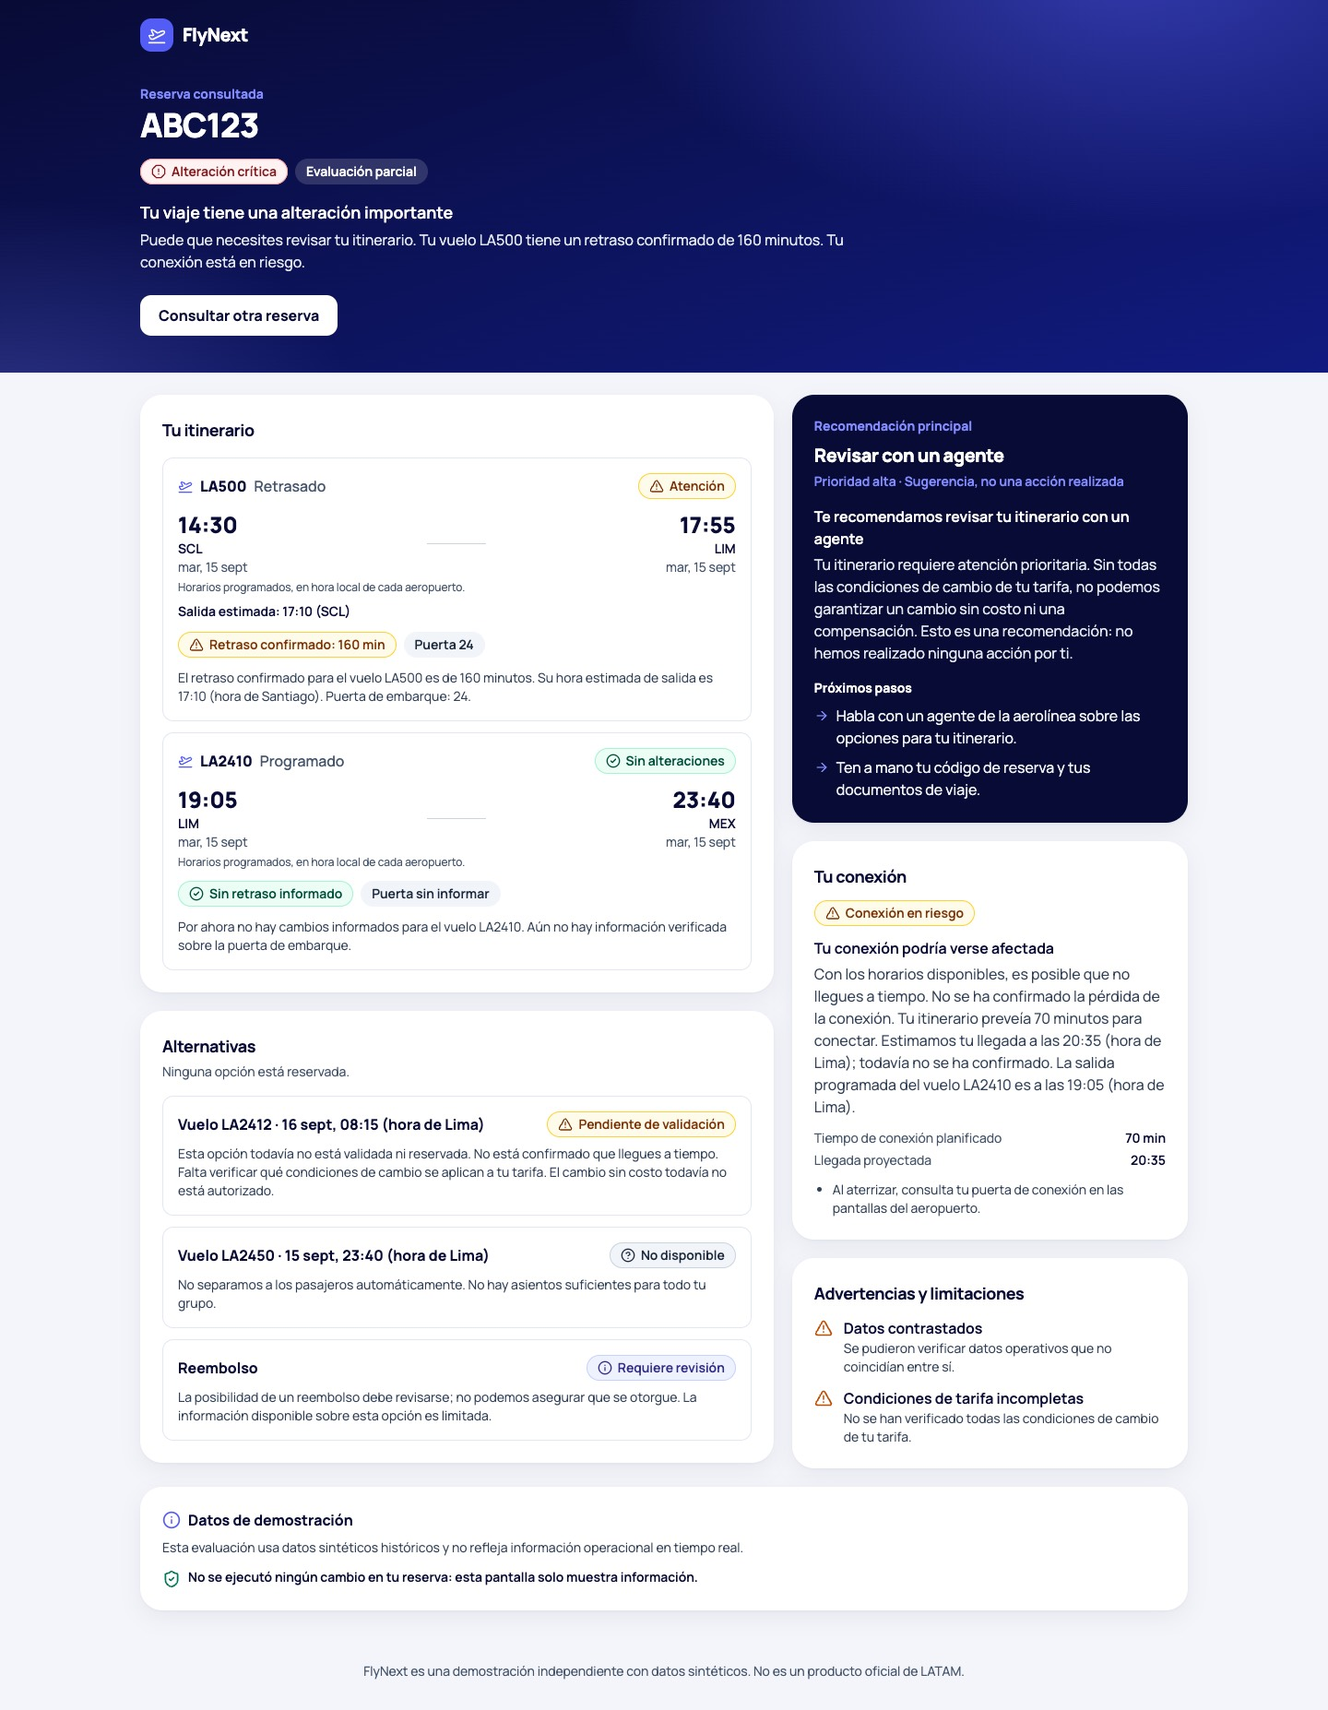
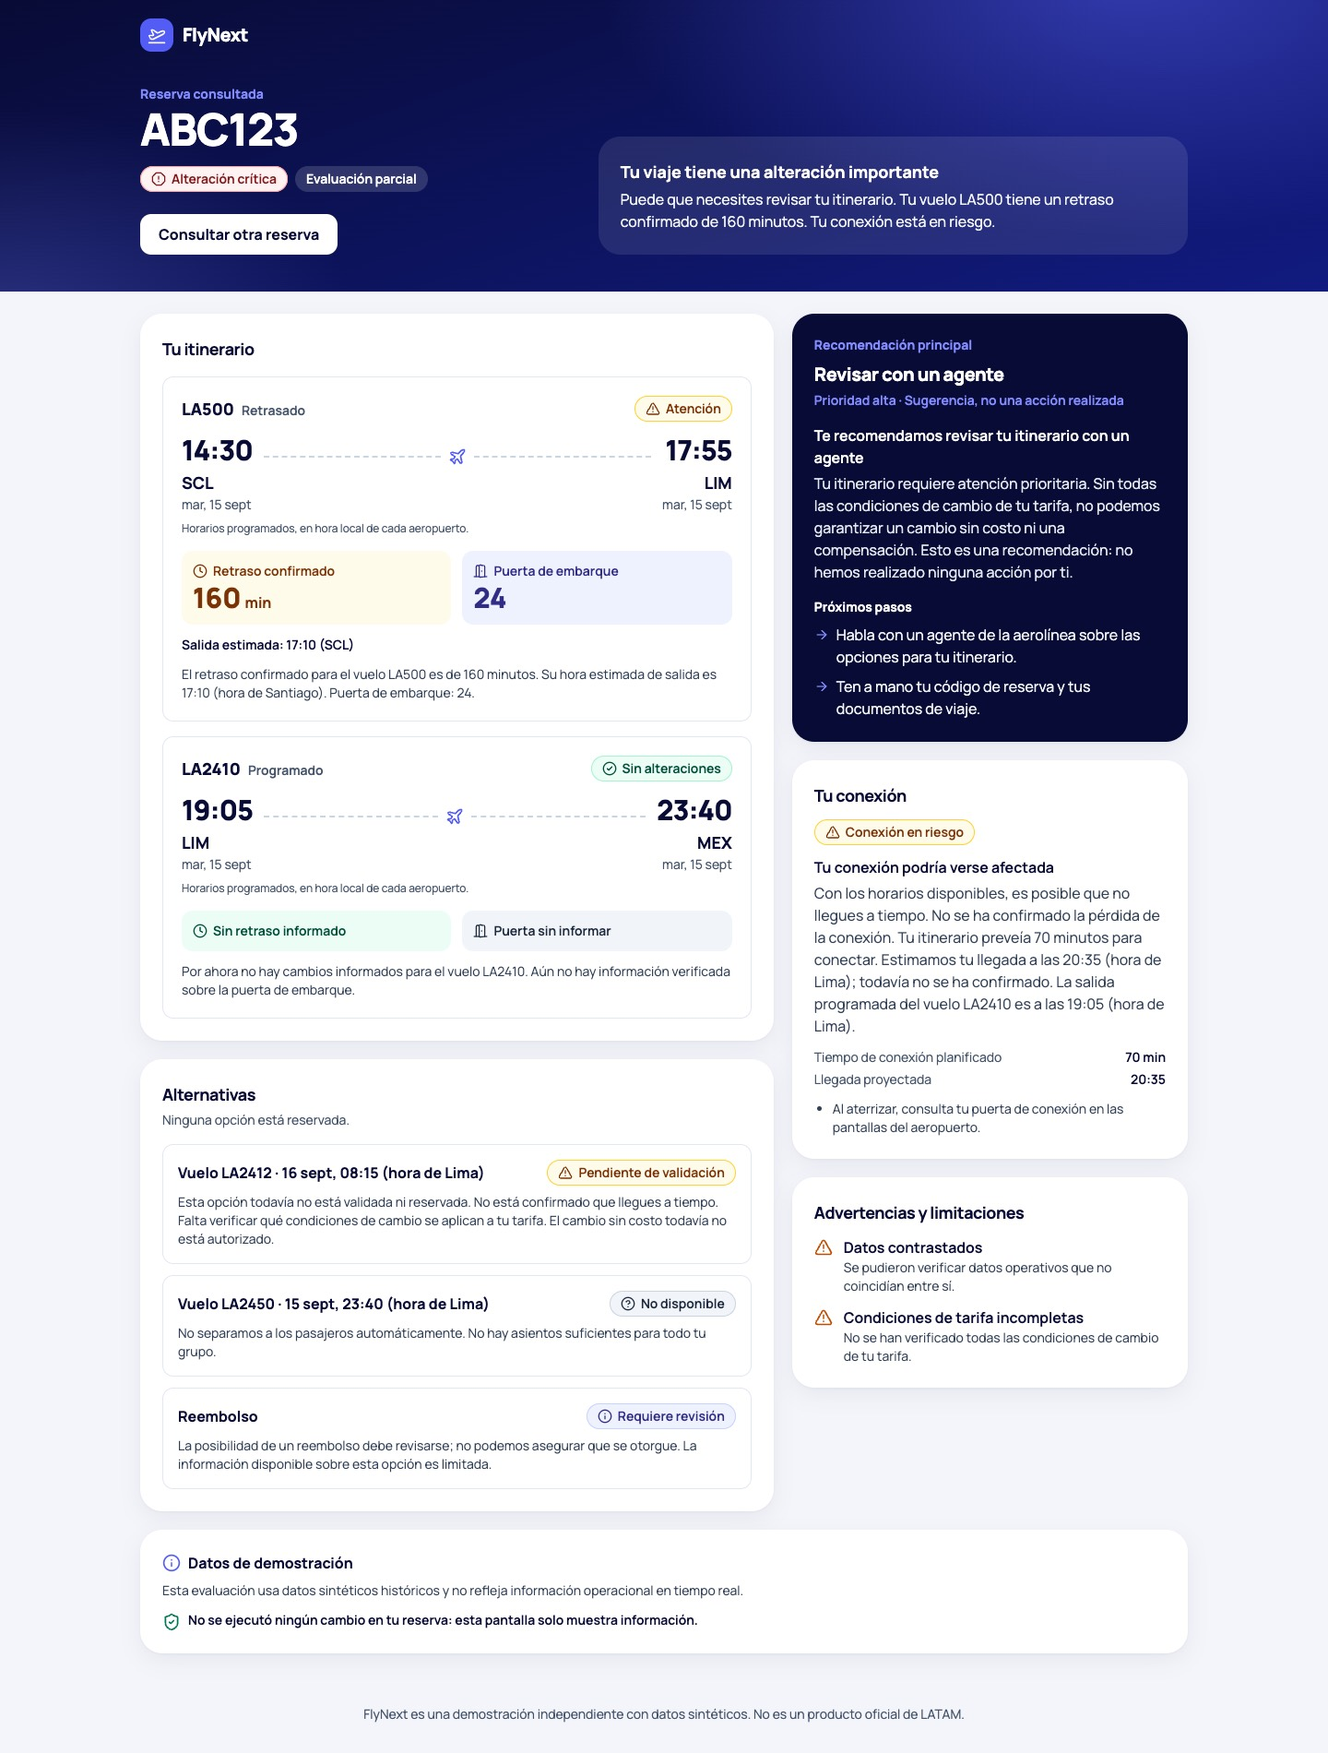
style(web): refine home and assessment visual hierarchy

diff --git a/apps/web/src/features/disruption/components/itinerary.tsx b/apps/web/src/features/disruption/components/itinerary.tsx
@@ -1,57 +1,110 @@
 import type { AssessmentResponse } from "@flynext/contracts";
-import { PlaneTakeoff } from "lucide-react";
+import { Clock, DoorOpen, Plane } from "lucide-react";
 import { Card, CardTitle } from "../../../components/ui/card";
-import { StatusBadge } from "../../../components/ui/status-badge";
+import { StatusBadge, type Tone } from "../../../components/ui/status-badge";
 import { formatClock, formatDay } from "../../../lib/format";
-import { delayLabel, flightStatusLabel, gateLabel, severityLabel } from "../labels";
+import { delayDisplay, flightStatusLabel, gateValue, severityLabel } from "../labels";
 
 type Segment = AssessmentResponse["disruption"]["events"][number];
+type Time = Segment["scheduledDeparture"];
+
+const tileTone: Record<Tone, string> = {
+  ok: "bg-emerald-50 text-emerald-900",
+  info: "bg-indigo-50 text-indigo-900",
+  warn: "bg-amber-50 text-amber-900",
+  critical: "bg-red-50 text-red-900",
+  unknown: "bg-slate-100 text-slate-800",
+};
+
+function Endpoint({ code, time, align }: { code: string; time: Time; align: "left" | "right" }) {
+  return (
+    <div className={align === "right" ? "text-right" : ""}>
+      <p className="text-3xl font-extrabold leading-none tracking-tight">{formatClock(time)}</p>
+      <p className="mt-1.5 text-lg font-bold">{code}</p>
+      <p className="text-sm text-slate-600">{formatDay(time)}</p>
+    </div>
+  );
+}
+
+function Tile({
+  tone,
+  icon: Icon,
+  label,
+  value,
+  unit,
+}: {
+  tone: Tone;
+  icon: typeof Clock;
+  label: string;
+  value?: string | number;
+  unit?: string;
+}) {
+  return (
+    <div className={`rounded-input p-3 ${tileTone[tone]}`}>
+      <p className="flex items-center gap-1.5 text-sm font-semibold">
+        <Icon aria-hidden className="size-4 shrink-0" />
+        {label}
+      </p>
+      {value !== undefined && (
+        <p className="mt-1 text-3xl font-extrabold leading-none">
+          {value}
+          {unit && <span className="ml-1 text-base font-bold">{unit}</span>}
+        </p>
+      )}
+    </div>
+  );
+}
 
 function SegmentItem({ segment }: { segment: Segment }) {
-  const delay = delayLabel(segment.delay);
+  const delay = delayDisplay(segment.delay);
+  const gate = gateValue(segment.gate);
   const severity = severityLabel[segment.severity];
   return (
-    <li className="rounded-input border border-slate-200 p-4">
+    <li className="rounded-input border border-slate-200 p-4 sm:p-5">
       <div className="flex flex-wrap items-center justify-between gap-2">
-        <p className="flex items-center gap-2 font-extrabold">
-          <PlaneTakeoff aria-hidden className="size-4 text-indigo" />
+        <p className="flex items-baseline gap-2 text-lg font-extrabold">
           {segment.flightNumber}
-          <span className="font-medium text-slate-600">
+          <span className="text-sm font-semibold text-slate-600">
             {flightStatusLabel[segment.flightStatus]}
           </span>
         </p>
         <StatusBadge tone={severity.tone}>{severity.text}</StatusBadge>
       </div>
 
-      <div className="mt-3 grid grid-cols-[1fr_auto_1fr] items-center gap-3">
-        <div>
-          <p className="text-2xl font-extrabold">{formatClock(segment.scheduledDeparture)}</p>
-          <p className="text-sm font-semibold">{segment.origin.code}</p>
-          <p className="text-sm text-slate-600">{formatDay(segment.scheduledDeparture)}</p>
+      <div className="mt-4 grid grid-cols-[auto_1fr_auto] items-start gap-3">
+        <Endpoint code={segment.origin.code} time={segment.scheduledDeparture} align="left" />
+        <div aria-hidden className="flex items-center gap-2 pt-3 text-indigo">
+          <span className="flex-1 border-t-2 border-dashed border-slate-300" />
+          <Plane className="size-5 shrink-0" />
+          <span className="flex-1 border-t-2 border-dashed border-slate-300" />
         </div>
-        <span aria-hidden className="h-px w-8 bg-slate-300 sm:w-16" />
-        <div className="text-right">
-          <p className="text-2xl font-extrabold">{formatClock(segment.scheduledArrival)}</p>
-          <p className="text-sm font-semibold">{segment.destination.code}</p>
-          <p className="text-sm text-slate-600">{formatDay(segment.scheduledArrival)}</p>
-        </div>
+        <Endpoint code={segment.destination.code} time={segment.scheduledArrival} align="right" />
       </div>
-      <p className="mt-1 text-xs text-slate-600">
+      <p className="mt-2 text-xs text-slate-600">
         Horarios programados, en hora local de cada aeropuerto.
       </p>
 
+      <div className="mt-4 grid grid-cols-2 gap-3">
+        <Tile
+          tone={delay.tone}
+          icon={Clock}
+          label={delay.label}
+          value={delay.minutes}
+          unit={delay.minutes === undefined ? undefined : "min"}
+        />
+        <Tile
+          tone={gate === undefined ? "unknown" : "info"}
+          icon={DoorOpen}
+          label={gate === undefined ? "Puerta sin informar" : "Puerta de embarque"}
+          value={gate}
+        />
+      </div>
+
       {segment.estimatedDeparture && (
-        <p className="mt-2 text-sm font-semibold">
+        <p className="mt-3 text-sm font-semibold">
           Salida estimada: {formatClock(segment.estimatedDeparture)} ({segment.origin.code})
         </p>
       )}
-
-      <div className="mt-3 flex flex-wrap gap-2">
-        <StatusBadge tone={delay.tone}>{delay.text}</StatusBadge>
-        <span className="inline-flex items-center rounded-full bg-slate-100 px-3 py-1 text-sm font-semibold text-slate-800">
-          {gateLabel(segment.gate)}
-        </span>
-      </div>
       <p className="mt-3 text-sm text-slate-700">{segment.message.message}</p>
     </li>
   );
@@ -61,7 +114,7 @@ export function Itinerary({ events }: { events: Segment[] }) {
   return (
     <Card aria-labelledby="itinerary-title">
       <CardTitle id="itinerary-title">Tu itinerario</CardTitle>
-      <ol className="mt-4 grid gap-3">
+      <ol className="mt-4 grid gap-4">
         {events.map((segment) => (
           <SegmentItem key={segment.segmentId} segment={segment} />
         ))}

diff --git a/apps/web/src/features/disruption/components/assessment-view.tsx b/apps/web/src/features/disruption/components/assessment-view.tsx
@@ -23,30 +23,36 @@ export function ResultHeader({
       aria-labelledby="result-title"
       className="mx-auto max-w-page px-5 pb-10 pt-4 text-white sm:px-8"
     >
-      <p className="text-sm font-bold text-soft">Reserva consultada</p>
-      <h1
-        id="result-title"
-        tabIndex={-1}
-        ref={(node) => node?.focus({ preventScroll: true })}
-        className="mt-1 text-3xl font-extrabold tracking-tight sm:text-4xl"
-      >
-        {bookingId}
-      </h1>
-      <div className="mt-4 flex flex-wrap items-center gap-2">
-        <StatusBadge tone={severity.tone}>{severity.text}</StatusBadge>
-        <span className="rounded-full bg-white/15 px-3 py-1 text-sm font-semibold">
-          {assessmentStatusLabel[data.assessmentStatus]}
-        </span>
+      <div className="grid gap-6 lg:grid-cols-[1fr_1.4fr] lg:items-end lg:gap-10">
+        <div>
+          <p className="text-sm font-bold text-soft">Reserva consultada</p>
+          <h1
+            id="result-title"
+            tabIndex={-1}
+            ref={(node) => node?.focus({ preventScroll: true })}
+            className="mt-1 text-4xl font-extrabold tracking-tight sm:text-5xl"
+          >
+            {bookingId}
+          </h1>
+          <div className="mt-4 flex flex-wrap items-center gap-2">
+            <StatusBadge tone={severity.tone}>{severity.text}</StatusBadge>
+            <span className="rounded-full bg-white/15 px-3 py-1 text-sm font-semibold">
+              {assessmentStatusLabel[data.assessmentStatus]}
+            </span>
+          </div>
+          <button
+            type="button"
+            onClick={onNewQuery}
+            className="mt-6 min-h-11 rounded-input bg-white px-5 font-bold text-midnight hover:bg-slate-100"
+          >
+            Consultar otra reserva
+          </button>
+        </div>
+        <div className="rounded-card bg-white/10 p-5 sm:p-6">
+          <p className="text-lg font-bold">{data.disruption.summary.title}</p>
+          <p className="mt-1 text-slate-100">{data.disruption.summary.message}</p>
+        </div>
       </div>
-      <p className="mt-4 max-w-3xl text-lg font-semibold">{data.disruption.summary.title}</p>
-      <p className="mt-1 max-w-3xl text-slate-200">{data.disruption.summary.message}</p>
-      <button
-        type="button"
-        onClick={onNewQuery}
-        className="mt-6 min-h-11 rounded-input bg-white px-5 font-bold text-midnight hover:bg-slate-100"
-      >
-        Consultar otra reserva
-      </button>
     </section>
   );
 }

diff --git a/apps/web/src/features/disruption/components/overview-cards.tsx b/apps/web/src/features/disruption/components/overview-cards.tsx
@@ -1,0 +1,41 @@
+import { BellRing, ListChecks, Plane } from "lucide-react";
+import type { ComponentType } from "react";
+
+const cards: { title: string; text: string; icon: ComponentType<{ className?: string }> }[] = [
+  {
+    title: "Tu vuelo",
+    text: "Mira el estado de cada vuelo y los cambios en tu itinerario, con horarios en la hora local de cada aeropuerto.",
+    icon: Plane,
+  },
+  {
+    title: "Tus alertas",
+    text: "Entiende qué retrasos hay y si tu conexión está en riesgo, sin tecnicismos.",
+    icon: BellRing,
+  },
+  {
+    title: "Tus opciones",
+    text: "Conoce las alternativas disponibles y los próximos pasos recomendados. Ninguna se reserva por ti.",
+    icon: ListChecks,
+  },
+];
+
+export function OverviewCards() {
+  return (
+    <section aria-labelledby="overview-title">
+      <h2 id="overview-title" className="text-xl font-extrabold tracking-tight">
+        Qué vas a encontrar
+      </h2>
+      <ul className="mt-4 grid gap-4 md:grid-cols-3">
+        {cards.map(({ title, text, icon: Icon }) => (
+          <li key={title} className="rounded-card bg-white p-5 shadow-card sm:p-6">
+            <span className="grid size-11 place-items-center rounded-input bg-indigo/10 text-indigo">
+              <Icon aria-hidden className="size-6" />
+            </span>
+            <h3 className="mt-4 text-lg font-bold">{title}</h3>
+            <p className="mt-1 text-slate-700">{text}</p>
+          </li>
+        ))}
+      </ul>
+    </section>
+  );
+}

diff --git a/apps/web/src/features/disruption/labels.ts b/apps/web/src/features/disruption/labels.ts
@@ -60,19 +60,21 @@ export const eligibilityLabel: Record<Alternative["eligibility"], Label> = {
   REQUIRES_REVIEW: { text: "Requiere revisión", tone: "info" },
 };
 
-export function delayLabel(delay: Segment["delay"]): Label {
+type Delay = { label: string; minutes?: number; tone: Tone };
+
+export function delayDisplay(delay: Segment["delay"]): Delay {
   switch (delay.status) {
     case "CONFIRMED":
-      return { text: `Retraso confirmado: ${delay.minutes} min`, tone: "warn" };
+      return { label: "Retraso confirmado", minutes: delay.minutes, tone: "warn" };
     case "UNCONFIRMED":
-      return { text: `Retraso sin confirmar: ${delay.minutes} min`, tone: "info" };
+      return { label: "Retraso sin confirmar", minutes: delay.minutes, tone: "info" };
     case "NOT_DELAYED":
-      return { text: "Sin retraso informado", tone: "ok" };
+      return { label: "Sin retraso informado", tone: "ok" };
     case "UNKNOWN":
-      return { text: "Retraso sin verificar", tone: "unknown" };
+      return { label: "Retraso sin verificar", tone: "unknown" };
   }
 }
 
-export function gateLabel(gate: Segment["gate"]): string {
-  return gate.status === "KNOWN" ? `Puerta ${gate.value}` : "Puerta sin informar";
+export function gateValue(gate: Segment["gate"]): string | undefined {
+  return gate.status === "KNOWN" ? gate.value : undefined;
 }

diff --git a/apps/web/src/App.tsx b/apps/web/src/App.tsx
@@ -3,6 +3,7 @@ import { Footer } from "./components/layout/footer";
 import { Header } from "./components/layout/header";
 import { AssessmentView, ResultHeader } from "./features/disruption/components/assessment-view";
 import { BookingForm } from "./features/disruption/components/booking-form";
+import { OverviewCards } from "./features/disruption/components/overview-cards";
 import { Hero } from "./features/disruption/components/hero";
 import { FailurePanel, LoadingPanel } from "./features/disruption/components/query-feedback";
 import { useAssessment } from "./features/disruption/hooks/use-assessment";
@@ -34,6 +35,7 @@ export function App() {
       </div>
 
       <main className="mx-auto w-full max-w-page flex-1 px-5 py-6 sm:px-8">
+        {state.status === "idle" && <OverviewCards />}
         {state.status === "loading" && <LoadingPanel bookingId={state.bookingId} />}
         {state.status === "failure" && (
           <FailurePanel

diff --git a/apps/web/src/App.test.tsx b/apps/web/src/App.test.tsx
@@ -80,8 +80,9 @@ describe("passenger experience", () => {
 
     const la500 = (await screen.findByText("LA500")).closest("li")!;
     const la2410 = screen.getByText("LA2410").closest("li")!;
-    expect(within(la500).getByText("Retraso confirmado: 160 min")).toBeVisible();
-    expect(within(la500).getByText("Puerta 24")).toBeVisible();
+    expect(within(la500).getByText("Retraso confirmado")).toBeVisible();
+    expect(within(la500).getByText("160")).toBeVisible();
+    expect(within(la500).getByText("24")).toBeVisible();
     expect(within(la2410).queryByText(/Retraso confirmado/)).not.toBeInTheDocument();
     expect(within(la2410).getByText("Puerta sin informar")).toBeVisible();
     expect(within(la2410).getByText("Sin retraso informado")).toBeVisible();

diff --git a/apps/web/src/features/disruption/components/hero.tsx b/apps/web/src/features/disruption/components/hero.tsx
@@ -11,7 +11,8 @@ export function Hero({ children }: { children: ReactNode }) {
             id="hero-title"
             className="mt-3 text-4xl font-extrabold leading-tight tracking-tight sm:text-5xl"
           >
-            Tu viaje cambia. Tu tranquilidad no.
+            <span className="lg:block">Tu viaje cambia.</span>{" "}
+            <span className="text-soft lg:block">Tu tranquilidad no.</span>
           </h1>
           <p className="mt-4 max-w-xl text-lg text-slate-200">
             Consulta tu reserva y entiende en segundos qué pasó con tus vuelos, cómo afecta tu

diff --git a/odd/tasks/flynext.md b/odd/tasks/flynext.md
@@ -137,3 +137,5 @@ Time reference (approved at G0; planning references, not measurements): budget 1
 - **L24** (maintainer methodology adjustment and PR-04 publication): The maintainer disabled receipt-driven development for this clone only (`gentle-ai review mode disable --scope clone`; status afterwards: off, decided by `clone_local`, global still on), because the review harness consumed time disproportionate to the challenge scope and budget. This replaces the earlier instruction to keep RDD enabled. The partial native-review coverage in L23 and Engram #1737 is accepted as documented; the branch has no integral native review and none is claimed. Retained controls: ODD, Engram, test-first, work-unit commits, TypeScript strict, independent verification where it adds value, tests, lint, typecheck, CI and security controls, and human approval per PR. No new lineage, extra worktree or retry of over-budget candidates. Publication of `feat/rest-api-observability` as a single PR against `main`, preserving history, is authorized as a documented exception to the ~400-line guideline (cohesive, implemented and validated unit). Merge, deployment, G4 closure and PR-05 are not authorized.
 - **L25** (G4 closure): The maintainer authorized merge, Railway deployment and G4 closure. PR #4 (head `331259ba5486b1737365832083c7482b18c0b628`, PR CI run `45694387005` success, mergeable and clean) was merged preserving history as `a53fcd83b90f0886d5d18356f9902b46ddc0fd40` (parents `47994a3` and `331259b`; the merged tree equals the PR tree; only `docs/evidence/TOOLING.md` and `odd/tasks/flynext.md` differ from approved functional SHA `93c7ed5`). `main` CI run `45695022430` succeeded on the merge commit; the branch was not deleted. Railway: `LOG_LEVEL=info` set without redeploy (existing `HOST`, `NODE_ENV`, `RAILPACK_NODE_VERSION=24.15.0` kept; no new services or resources), then `railway up` from the clean `a53fcd8` checkout produced deployment `1322dfe1-614b-470d-acc8-c9f42eab8ff9` (SUCCESS) at https://flynext-api-production.up.railway.app; the previous deployment `8e462997-e14d-4331-b903-68fee81a258b` moved to REMOVING. Public smoke over HTTPS passed: `/` 200 informational, `/health` 200, `/docs` Swagger UI, `/docs/json` OpenAPI 3.1 with the assessment path; ABC123 200 PARTIAL/CRITICAL/AT_RISK/HUMAN_REVIEW/HIGH, LA500 delay CONFIRMED 160, gate 24, no executed actions, mode SIMULATION; DEMO01 200 COMPLETE/NO_ACTION_REQUIRED; DEMO02 200 COMPLETE/REVIEW_REBOOKING_OPTIONS with R1 REBOOK_NO_FEE APPLICABLE; invalid body 400 and unknown booking 404 as problem+json with matching `X-Request-Id`; unknown route 404 sanitized with no request ID (accepted, D01); DEMO03–DEMO06 return 404 BOOKING_NOT_FOUND on the public API (test fixtures only, A08). No names, emails, stack traces or paths in the assessment bodies. Railway logs showed correlated structured events (`provider.read` with `durationMs`, `assessment.completed`, `assessment.data_quality`) and no booking identifiers. Rate limiting: the limiter keys on the direct peer IP with `trustProxy` off; independence between clients behind the Railway proxy could not be demonstrated without exhausting the shared quota, so the documented limitation stands (R1-001, R4-002). Native review coverage remains partial as in L23; no integral native review is claimed; RDD stays off for this clone only. PR-05 not started; no skills installed.
 - **L26** (user, PR-05 authorization, 2026-11-25): "Autorizo iniciar e implementar PR-05 — Passenger Experience." Branch `feat/passenger-experience` from `bd6ab50`; local commits only; "No hacer push. No hacer merge. No desplegar en Railway. No cerrar G5. No iniciar PR-06. No activar RDD." Delivered: feature-first React app (`features/disruption`), Fetch client with timeout/abort/stale-response guard validated by the shared Zod schemas, eight UI states, `@fastify/static` integration (`GET /` serves the build; unknown routes keep the sanitized 404; API-only start when no build), 10 web tests and 4 static-integration tests. Node 24.15.0 / pnpm 12.16.1: frozen install, `pnpm check` (50 + 280 + 10), all builds, `git diff --check` and local smoke passed. Skills were evaluated read-only and not installed (see TOOLING.md). Open: keyboard/contrast/screen-reader audit was not tooling-verified; UI tests were not test-first. Commits: f79fe3d (dependencies), 566cb01 (static serving), d132b25 (web app), docs commit; about 1.6k authored lines, past the ~400 guideline (about 380 are generated synthetic JSON fixtures and 500 are tests), kept as one cohesive web unit. G5 stays open; PR-06 not started.
+- **L27** (user, PR-05 visual polish, 2026-11-25): "Autorizo una última intervención exclusivamente visual antes de publicar PR-05." Scope: home overview cards (Tu vuelo / Tus alertas / Tus opciones, informational), two-line headline with Soft Indigo second line, assessment refinements (large delay minutes and gate tiles, dashed Lucide route line, two-column result header), no backend, contract, dependency or architecture change. Done in one visual commit; `pnpm check` (50 + 280 + 10), `pnpm build` and `git diff --check` passed; four screenshots regenerated; no horizontal overflow at 375/390/768/1024/1440 px. Bounded accessibility check (computed, no tools installed): Soft Indigo on Midnight 6.39:1 and on Deep Blue 4.75:1 (about 3.6:1 only inside the top-right glow, large text); white on Primary Indigo 4.98:1; focus ring Indigo 3.8:1 on Midnight and 4.98:1 on white; secondary slate text 6.9-10.4:1; keyboard Tab order input, submit, three scenarios with a 3 px visible focus ring confirmed in Chrome. Screen reader still not audited. No push, merge or deploy; G5 open; PR-06 not started.
+
